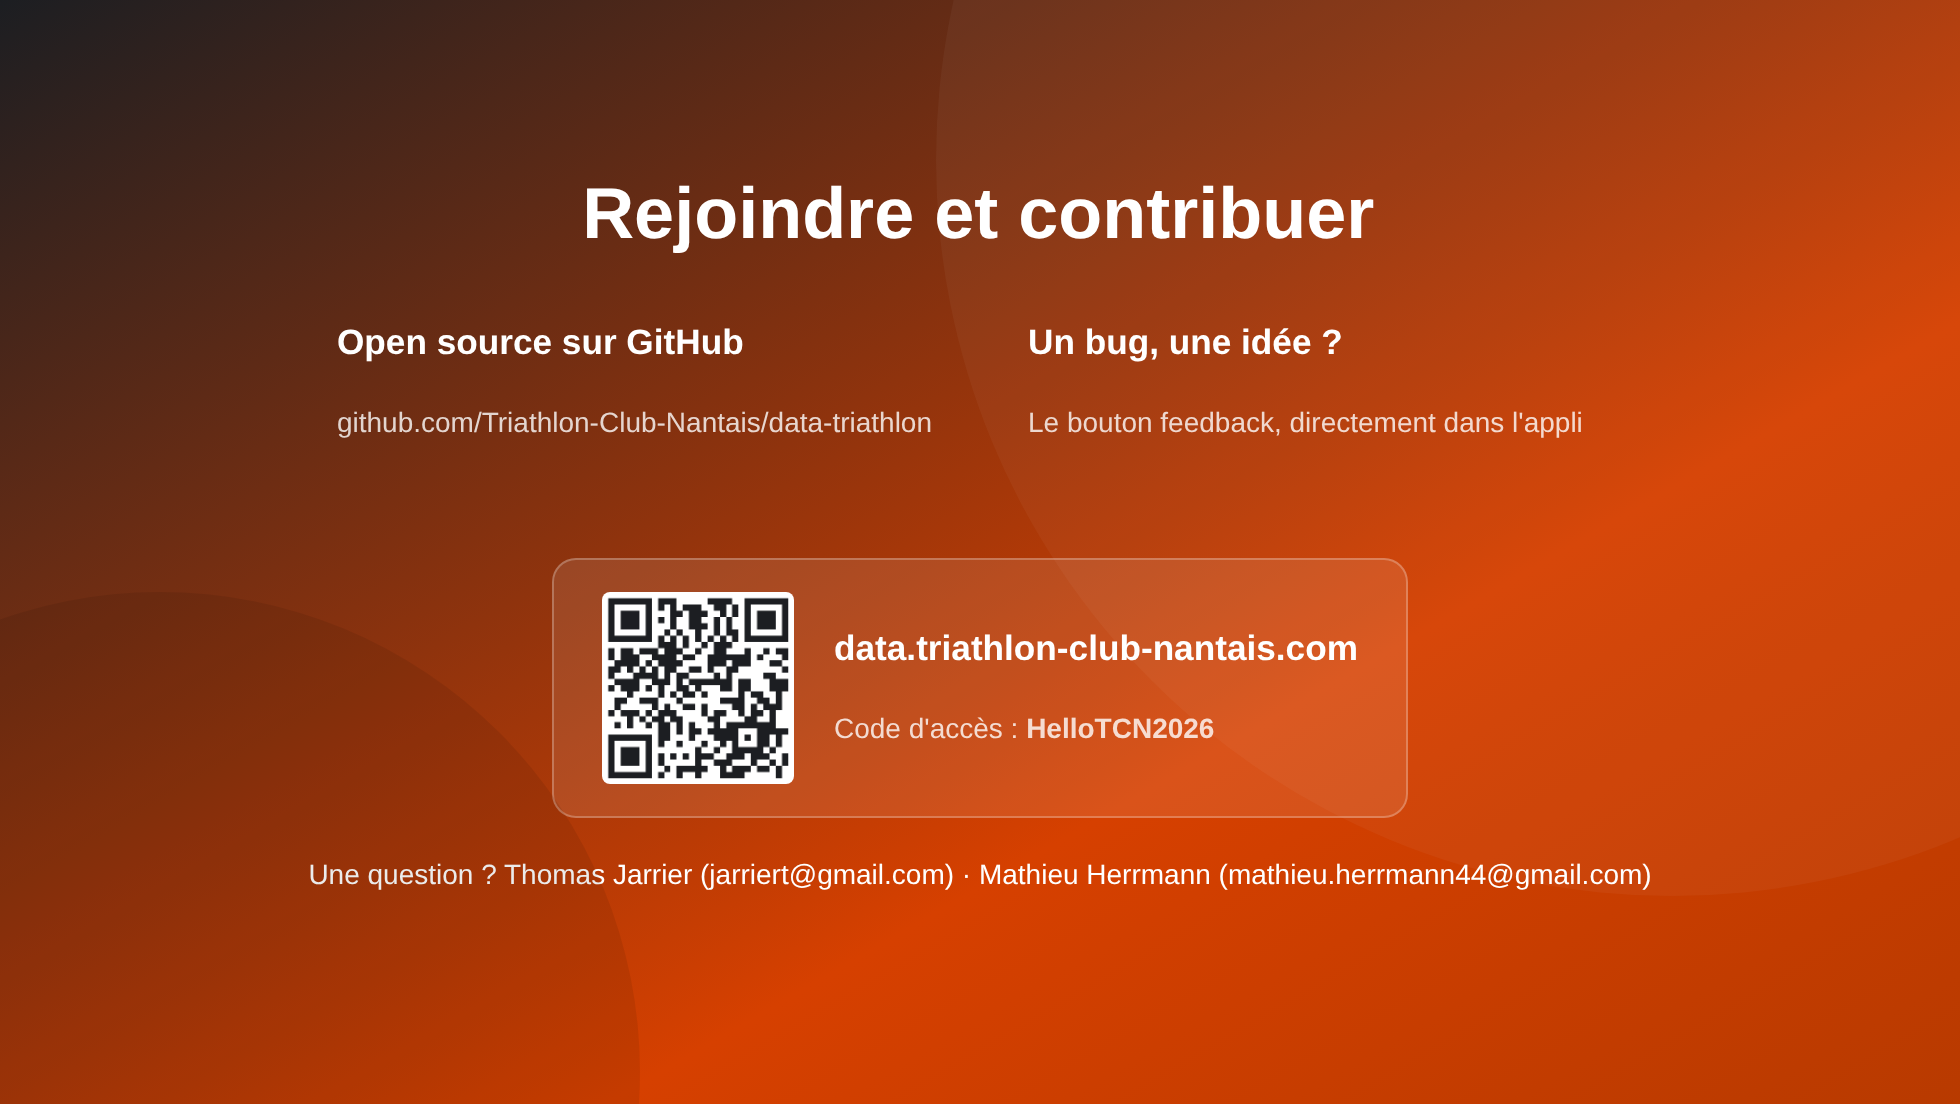
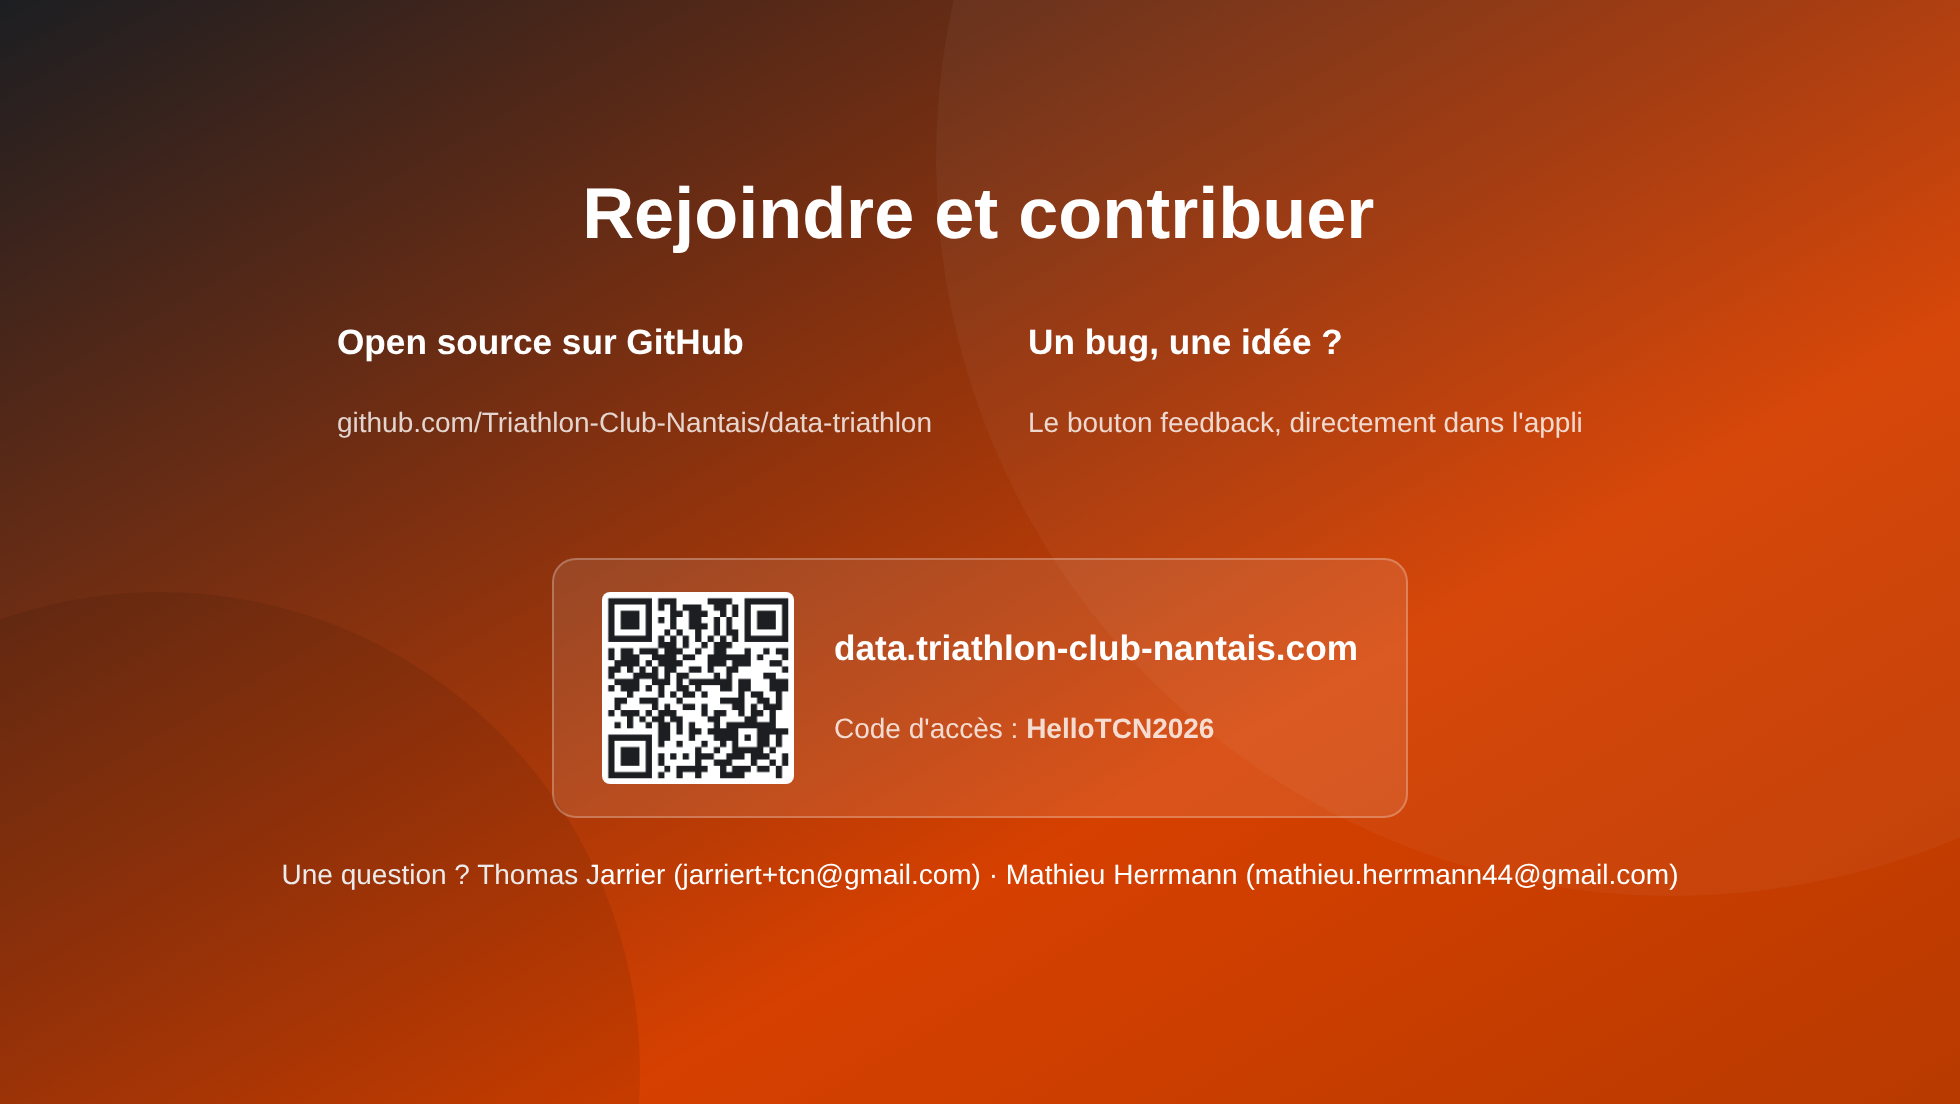
docs(slides): utilise l'adresse +tcn de Thomas Jarrier

Changed region(s): [[0.1556, 0.7699, 0.8714, 0.8007]]

diff --git a/docs/slides/presentation-globale/slides.md b/docs/slides/presentation-globale/slides.md
@@ -334,6 +334,6 @@ class: infographic-slide
   </div>
 
   <p v-motion :initial="{ opacity: 0 }" :enter="{ opacity: 1, transition: { duration: 400, delay: 750 } }" class="text-sm opacity-70 mt-8">
-    Une question ? Thomas Jarrier (jarriert@gmail.com) · Mathieu Herrmann (mathieu.herrmann44@gmail.com)
+    Une question ? Thomas Jarrier (jarriert+tcn@gmail.com) · Mathieu Herrmann (mathieu.herrmann44@gmail.com)
   </p>
 </div>
